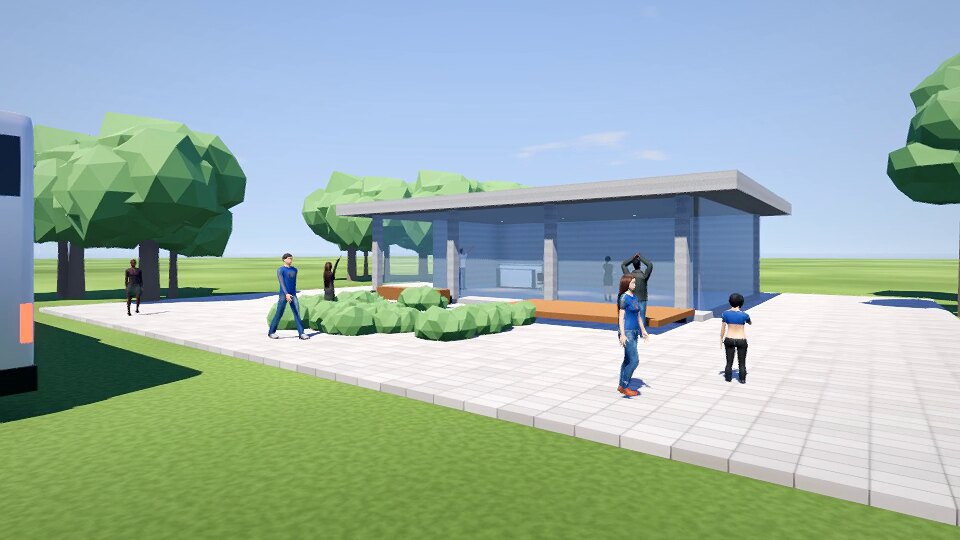
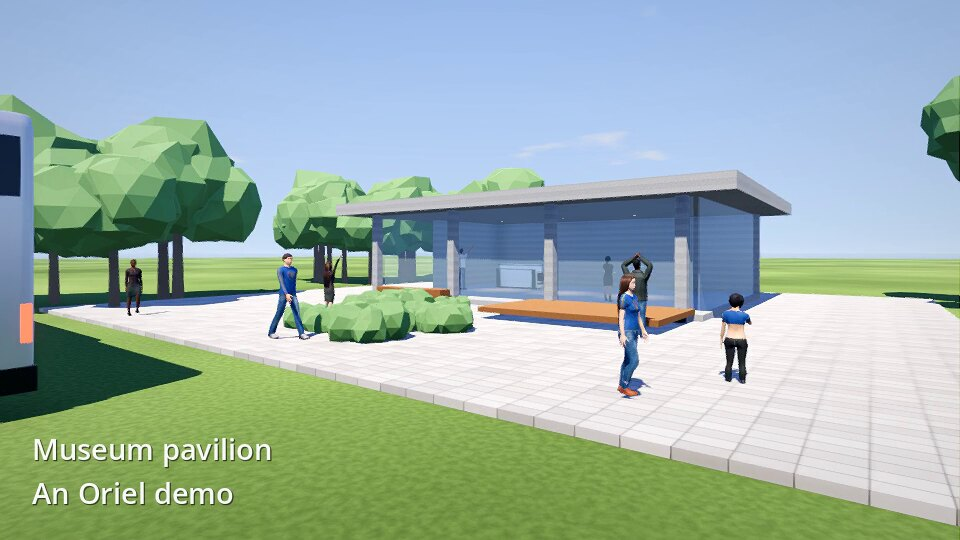
Read a large project ahead one file at a time; the screenshot tour found a dead stop
The screenshot tour, run from the AppImage, stopped dead opening the demo:
reading the scene's files ahead all at once (several
load_threaded_request at a time) left the engine's readers waiting on each
other in the built program. From the source it had not happened, and the
end-to-end test opens projects another way.

- A project is read ahead only when its own models and pictures come to
  48 MB or more, one file after another, each a single request without
  sub-threads; library models are read when the scene is put together.
  Smaller projects open at once, as in rc4.
- Lab "big" opens its project five times through the program, and passes
  from the built program too.

Docs: the demo film's new frame and the aerial view; captions; what the
read-ahead does.

Claude-Session: https://claude.ai/code/session_01JJc57sSPYVamSAjGMD5nFU

diff --git a/CHANGELOG.md b/CHANGELOG.md
@@ -21,14 +21,14 @@ What Lumion, D5 and V-Ray users would miss, added. Every feature of rc4 is kept,
 - **Volumetric clouds**: clouds with depth, lit from where the sun is and carried by the wind; Eevee and Cycles show the same clouds.
 
 ### Materials
-- **Relief**: a height map moves the surface in and out (brick joints, cobbles, bark): Cycles moves the surface itself, Eevee and the 3D view shade it as if moved. Without a height map the heights are worked out from the normal map. Height maps come with downloaded materials and with your own images.
+- **Relief**: a height map moves the surface in and out (brick joints, cobbles, bark): Cycles moves the surface itself (true displacement), Eevee shades it as if moved, and the 3D view shows depth where the material is laid by the model's own texture coordinates. Without a height map the heights are worked out from the normal map. Height maps come with downloaded materials and with your own images.
 - **Light inside** (wax, marble, skin, leaves, snow) and **Solid glass (bends light)** for a vase, a bottle, a glass block.
-- **Layers**: one material over another where a mask says: plaster in patches over brick, moss in the joints, bare metal on the raised parts, streaks of damp, speckles. Up to four layers, each with how much, pattern size, soft edge, thickness and tint. The same in the three renderers.
+- **Layers**: one material over another where a mask says: plaster in patches over brick, moss in the joints, bare metal on the raised parts, streaks of damp, speckles. Up to four layers, each with how much, pattern size, soft edge, thickness and tint. Joints and raised parts are found from the first layer's normal map, however softly it is drawn, and only where that layer still shows. The same in the three renderers.
 
 ### Films
 - **Keyframes and a timeline** under the 3D view (View > Timeline, Ctrl+T): *Key the selection* (K) records where things are, how they are turned and how large; a light's brightness and colour; a camera's lens. *Key…* records the sun, the sky, the weather, or whether the selection shows. Keys can be dragged, eased (Smooth, Linear, Glide, Ease in, Ease out, Hold) and removed.
 - **The film as an edit** (Movie page, *The edit*): each shot comes in with a Cut, a Dissolve, Through black or Through white; **titles** on the picture, placed and timed on the timeline; a **soundtrack** with its volume; a fade to black at the end. Real-time, Eevee and Cycles films are finished the same way.
-- **Traffic** (Movie page, *Draw traffic*): draw a road; vehicles of the kind chosen drive along it in lanes, both ways if wanted, keeping their distance.
+- **Traffic** (Movie page, *Draw traffic*): draw a road; vehicles of the kind chosen (or people walking) travel along it in lanes, both ways if wanted, keeping their distance.
 
 ### Populating a scene
 - **Rows and fills** (Landscape page, *Draw a spread*): an avenue of trees, lamp posts down a street, cars parked along a kerb; or a wood, a crowd in a square, filling the line drawn. What is spread, how far apart, how much out of line, sizes and facing are in Properties; the spread follows the ground.
@@ -41,7 +41,7 @@ What Lumion, D5 and V-Ray users would miss, added. Every feature of rc4 is kept,
 - **Count the scene** (Scene page, *A large scene*): triangles, objects, shapes, lights, materials, megabytes of pictures, what the 3D view is drawing, and the heaviest things.
 - **Show selection as boxes**: heavy things as plain boxes in the 3D view while you work around them; every render shows them in full.
 - **Lighten the project's models**: levels of detail for the models a project already keeps.
-- **Large projects open with the window alive**: the scene's files are read in the background, with how far it has got.
+- **Large projects open with the window alive**: a project whose own models and pictures come to 48 MB or more is read in the background, with how far it has got.
 - **Eevee and Cycles are handed each shape once**: a model placed two hundred times is written, read and held in memory once, and its pictures (a normal map twenty materials share) once. Draft and Good renders pack the pictures small. A street of library cars and trees went from 235 MB to 12 MB.
 
 ### Fixes
@@ -51,8 +51,8 @@ What Lumion, D5 and V-Ray users would miss, added. Every feature of rc4 is kept,
 - Clicking in the 3D view tests only what the view draws.
 
 ### Tests
-- A lab (`tests/dev/lab.gd`, run by `--script`): scenes built with the program's own tools, rendered by the three renderers and measured: IES beams, the light mixer, haze, weather, wind, relief and light inside, caustics, clouds, the walk-through (on Monado's stand-in headset too), a film with keys, a dissolve, a title and sound, layered materials, a street with a spread and traffic, the live view, a five-million-triangle scene.
-- The headless suites grew from 394 checks to 564; the module suite alone tripled, to 178.
+- A lab (`tests/dev/lab.gd`, run by `--script`): scenes built with the program's own tools, rendered by the three renderers and measured: model formats, IES beams, the light mixer, haze, weather, wind, relief and light inside, caustics, clouds, the walk-through (on Monado's stand-in headset too), a film with keys, a dissolve, a title and sound, layered materials, a street with a spread and traffic, the live view, a five-million-triangle scene. Run from the source and again from the AppImage itself (`reports/LAB_RESULTS.md`).
+- The headless suites grew from 419 checks to 564; the module suite alone tripled, to 178.
 
 ## 1.0.0-rc4 (Oriel)
 

diff --git a/docs/KNOWN_LIMITATIONS.md b/docs/KNOWN_LIMITATIONS.md
@@ -30,7 +30,7 @@ Honest list of what does not work, is not included, or was not tested.
 - **Volumetric clouds** are part of the sky: they cast no shadows on the ground and cannot be flown through. Eevee and Cycles are handed a picture of them made when the render starts, so in a photoreal film they do not drift.
 - **Wind** is drawn by the real-time renderer. In Eevee and Cycles films plants stand still.
 - **Spreads and traffic**: nothing avoids anything else. Traffic follows its road in lanes at each lane's speed and goes round again at the end; it does not stop at junctions, overtake or turn its wheels. A crowd in a spread stands still.
-- **Large scenes**: there is no streaming of parts of a scene in and out as the camera moves, and no occlusion culling. Things shown as boxes are boxes, not simplified models, and lamps other than the sun still cast their shadows in the 3D view. Shapes moved by a skeleton get no levels of detail. A project is read in the background, but the scene is put together at the end in one go, with the window still for that moment (a third of a second for the five-million-triangle test scene on the build machine).
+- **Large scenes**: there is no streaming of parts of a scene in and out as the camera moves, and no occlusion culling. Things shown as boxes are boxes, not simplified models, and lamps other than the sun still cast their shadows in the 3D view. Shapes moved by a skeleton get no levels of detail. A large project's own files are read in the background, one after another, but the scene is put together at the end in one go, with the window still for that moment (a third of a second for the five-million-triangle test scene on the build machine; longer when the scene uses many library models, which are read then).
 - **IFC** files come in as their shapes and colours, each element under its storey with its name; the data attached to elements (property sets, quantities, classifications) is not shown. **USD** comes in through Blender's reader, with the materials that reader understands. 3MF, LWO, ASE, X, OFF, AC and MS3D go through the same reader as Collada and 3DS and were not tried with files of their own.
 - **IES files**: Cycles shapes the beam from the file itself. Eevee cannot, and shows a cone that falls off between the angles where the file's beam is at half and at a twentieth of its peak.
 - **The light mixer** needs Cycles, and its groups are made by where lamps stand in the scene or by their names: to mix two lamps separately, give them different names or groups before rendering.

diff --git a/START_HERE.md b/START_HERE.md
@@ -69,7 +69,7 @@ This delivery has no Windows program. One can be built from the source (section 
    - *Preview* is quick. *Standard* is for most stills. *High* and *Maximum* take 16 and 64 samples.
    - Pictures go to the project's `renders/` folder; *Show the renders folder* opens it.
    - After a still, *AI upscale the last render* sharpens it with Real-ESRGAN. The first time, it downloads the upscaler (about 47 MB).
-8. **Make a film.** *Movie* moves between saved cameras and writes an MP4. This needs FFmpeg (section 5). The pavilion demo already has a film with three people walking across the plaza: press *Play* on the Movie page.
+8. **Make a film.** *Movie* moves between saved cameras and writes an MP4. This needs FFmpeg (section 5). The pavilion demo already has a film of two shots, with three people walking across the plaza, a title and a dissolve: press *Play* on the Movie page, and *View > Timeline* (Ctrl+T) to see how it is put together.
 9. **Run a show.** Open the *Event production demo* from the start screen, go to *Show*, and press **GO** to step through the four cues.
 10. **Save.** Press **Ctrl+S** (or click *Unsaved changes* in the status bar). Oriel also keeps unsaved work every few minutes, and keeps the last five saved versions in `backups/`.
 
@@ -90,7 +90,7 @@ What the demos' cameras give at *Standard* quality:
 |---|---|
 | ![Daylight](docs/screenshots/demo_architecture_day.jpg) | ![Night: blue hour, lights on](docs/screenshots/demo_architecture_night.jpg) |
 | ![Interior](docs/screenshots/demo_architecture_interior.jpg) | ![Concert, photo pit](docs/screenshots/demo_event_photo_pit.jpg) |
-| ![A frame of the demo film: people walking across the plaza](docs/screenshots/demo_architecture_walk.jpg) | ![The plaza camera](docs/screenshots/demo_architecture_plaza.jpg) |
+| ![A frame of the demo film: people walking across the plaza, under the film's title](docs/screenshots/demo_architecture_walk.jpg) | ![The plaza camera](docs/screenshots/demo_architecture_plaza.jpg) |
 
 **Render it photoreal.** On the Render page, set *Renderer* to *Eevee* or *Cycles*, pick a quality (*Draft* for a first look) and choose *Render still*. The engines are inside Oriel; the render runs in the background, with the time left, and *Stop rendering* stops it. The picture lands in the project's `renders/` folder next to the real-time ones. The Movie page renders films with the same renderer (a stopped film carries on where it stopped). See [docs/RENDERING.md](docs/RENDERING.md).
 

diff --git a/docs/PERFORMANCE.md b/docs/PERFORMANCE.md
@@ -14,7 +14,7 @@
 - **Levels of detail.** A shape of 2,500 triangles or more gets lighter versions of itself when it is brought in, and the 3D view draws the lightest one that looks the same at the size it is on the screen. *Lighten the project's models* does the same for the models a project already keeps (close and open the project afterwards). In the test scene of this release (thirty-four stones of 148,000 triangles each, five million in all) the view drew 22,000 triangles with all of them in sight and 91,000 close to one.
 - **Show selection as boxes.** Heavy things become plain boxes in the 3D view while you work around them (*…in full again* brings them back). Every render, by all three renderers, the walk-through and the camera previews show them in full. The same five million triangles as boxes: 800.
 - **Copies are free, nearly.** Painted plants, spreads and traffic are drawn in batches. A model placed many times is held once, and Eevee and Cycles are handed it once with the places of its copies: two hundred of a heavy tree weigh what one does.
-- **Opening a large project.** A project whose scene is made of twelve files or more is read in the background, with how far it has got, and the window stays alive meanwhile. A scene file itself stays small: models are kept in their own files, each once (a fault that wrote single-shape models into the scene a second time, making it slow to open, is fixed in this release; such scenes are put right the next time they are saved).
+- **Opening a large project.** A project whose own models and pictures come to 48 MB or more is read in the background, one file after another, with how far it has got, and the window stays alive meanwhile; smaller ones open at once, as before. A scene file itself stays small: models are kept in their own files, each once (a fault that wrote single-shape models into the scene a second time, making it slow to open, is fixed in this release; such scenes are put right the next time they are saved).
 - **The scene for Eevee and Cycles** holds each shape and each picture once. For Draft and Good the pictures are packed small (WebP, hardly lossy); High and Best get them exact.
 
 What there is not: streaming of parts of a scene in and out as the camera moves, and occlusion culling (not drawing what is behind a wall). A city block is practical; a city is not.

diff --git a/docs/ARCHITECTURE.md b/docs/ARCHITECTURE.md
@@ -36,6 +36,8 @@ Most of the original coupling went through `GnScene` (194 calls in 33 files), so
 - `set_anchors_preset` keeps old offsets; use `set_anchors_and_offsets_preset` to fill a parent.
 - Outside the editor Godot cannot tell that an instanced model's own resources are the model file's: a model whose top node is a mesh was written into the scene a second time. The scene service sets such resources aside while it packs a scene (`set_aside_own`, `take_back`) and gives them back to scenes saved before (`own_again`).
 - Setting a metadata property to null through `UndoRedo` leaves a mark that says null; marks are set and removed by method.
+- Several `ResourceLoader.load_threaded_request`s running at once stopped the built program dead (the engine's readers waiting on each other; from the source it did not happen). A project is read ahead one file at a time, each a single request without sub-threads (`app/main.gd`).
+- The source tree and the built program do not hold the library's pictures the same way (the build's are packed for the graphics card and a little weaker): what measures a picture's content, as the joints of a layered material do, is tested from the build as well (`ORIEL_BIN=… tests/dev/lab.sh`).
 - `PackedArray`s kept inside an `Array` are copies when read back; a shader's globals and anything that waits on `RenderingServer.frame_post_draw` need a display, so code that draws to make a picture is skipped in headless runs.
 
 ## What rc5 added, and where it lives

diff --git a/README.md b/README.md
@@ -32,7 +32,7 @@ Rendered by the program itself, from its two demo projects (Standard quality, so
 |---|---|
 | ![Architecture demo, daylight](docs/screenshots/demo_architecture_day.jpg) | ![Architecture demo, night](docs/screenshots/demo_architecture_night.jpg) |
 | ![Architecture demo, golden hour](docs/screenshots/demo_architecture_golden_hour.jpg) | ![Event production demo, photo pit](docs/screenshots/demo_event_photo_pit.jpg) |
-| ![A frame of the demo film: people walking across the plaza on a drawn path](docs/screenshots/demo_architecture_walk.jpg) | ![Architecture demo, the plaza camera](docs/screenshots/demo_architecture_plaza.jpg) |
+| ![A frame of the demo film: people walking across the plaza on a drawn path, under the film's title](docs/screenshots/demo_architecture_walk.jpg) | ![Architecture demo, the plaza camera](docs/screenshots/demo_architecture_plaza.jpg) |
 
 ## What it does
 

diff --git a/docs/LANDSCAPE.md b/docs/LANDSCAPE.md
@@ -10,6 +10,8 @@ A whole stroke is one undo step.
 
 ## Rows and fills
 
+![The architecture demo from the air; the row of trees in the foreground is a spread, one drawn line](screenshots/demo_architecture_aerial.jpg)
+
 *Draw a spread* (Landscape page, *Rows and fills*): click points in the 3D view, press Enter. Then, in Properties:
 
 - **Layout**: *Along the line* (an avenue of trees, lamp posts down a street, cars parked along a kerb, a hedge) or *Inside the outline* (a wood, a crowd standing in a square, a car park full).
